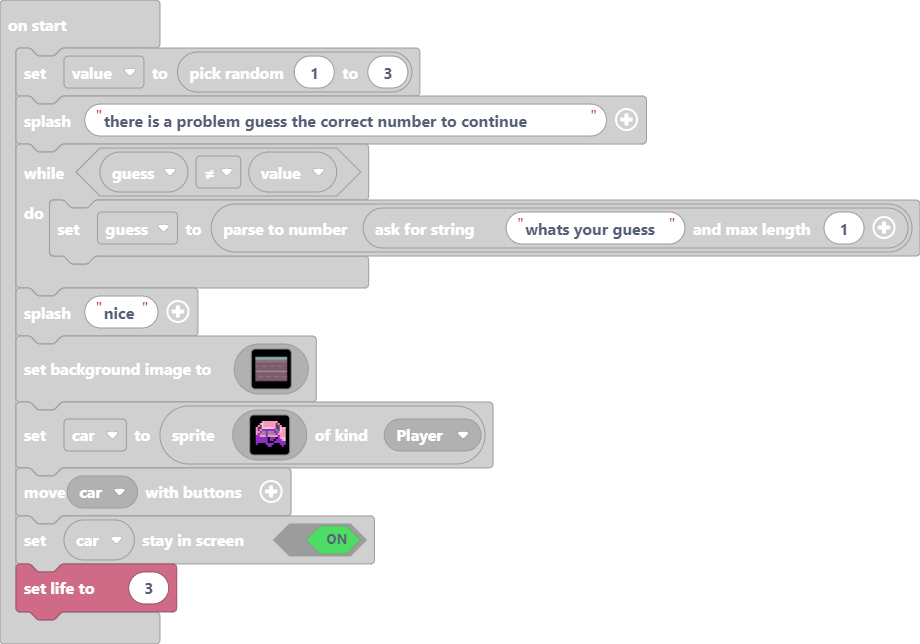
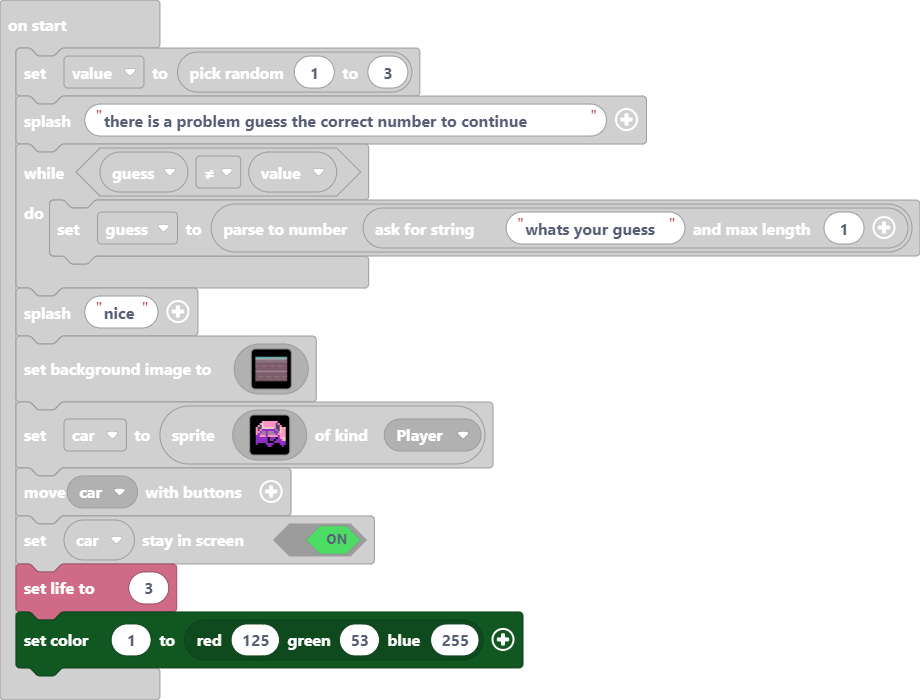
Update main.blocks, main.ts

Changed region(s): [[0.0, 0.0311, 1.0, 0.9938]]

diff --git a/main.ts b/main.ts
@@ -169,6 +169,7 @@ car = sprites.create(img`
 controller.moveSprite(car)
 car.setStayInScreen(true)
 info.setLife(3)
+color.setColor(1, color.rgb(125, 53, 255))
 game.onUpdateInterval(1000, function () {
     info.changeScoreBy(1)
 })
